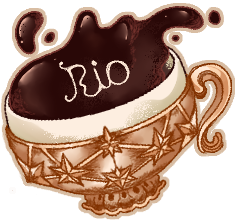
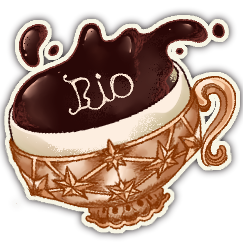
Nuevos iconos y mejoras para la responsiveness

diff --git a/src/scss/gallery.scss b/src/scss/gallery.scss
@@ -2,13 +2,16 @@
 
     .title {
         height: calc(100vh * 0.2);
+        min-height: 100px;
 
         &.title-#{$sectionName} {
             background-image: url('../assets/images/title-#{$sectionName}.png');
-        }
 
-        @include media-breakpoint-down(sm) {
-            &.title-#{$sectionName} {
+            @include media-breakpoint-down(sm) {
+                background-image: url('../assets/images/title-#{$sectionName}-small.png');
+            }
+
+            @media (max-height: 500px) {
                 background-image: url('../assets/images/title-#{$sectionName}-small.png');
             }
         }

diff --git a/src/scss/home.scss b/src/scss/home.scss
@@ -24,13 +24,16 @@ $button-height: 250px;
 
         width: 100%;
         height: calc(100vh * .25);
-    }
+        min-height: 100px;
 
-    @include media-breakpoint-down(sm) {
-        .title {
+        @include media-breakpoint-down(sm) {
+            background-image: url("../assets/images/home-title-small.png");
+        }
+        @media (max-height: 500px) {
             background-image: url("../assets/images/home-title-small.png");
         }
     }
+
 
     .left-0 .character.left{
         background-image: url("../assets/images/home-left-character-0.png");

diff --git a/src/scss/art.scss b/src/scss/art.scss
@@ -23,12 +23,9 @@
 
     .buttons-container {
 
-        .arrow {
-            max-width: 19%;
-        }
-        .return {
-            max-width: 59%;
-        }
+        background-color: rgba(0, 0, 0, 0.219);
+        border-radius: 50px;
+        padding: 5px 0;
 
         .arrow,
         .return {
@@ -39,6 +36,7 @@
         }
 
         a img {
+            max-height: 40px;
             transform: scale(1);
             transition: all 0.5s cubic-bezier(0.18, 0.89, 0.32, 1.28);
         }

diff --git a/src/scss/bio.scss b/src/scss/bio.scss
@@ -3,10 +3,13 @@
     .title {
         background-image: url('../assets/images/title-bio.png');
         height: calc(100vh * 0.2);
-    }
+        min-height: 100px;
 
-    @include media-breakpoint-down(sm) {
-        .title {
+        @include media-breakpoint-down(sm) {
+            background-image: url('../assets/images/title-bio-small.png');
+        }
+
+        @media (max-height: 500px) {
             background-image: url('../assets/images/title-bio-small.png');
         }
     }

diff --git a/src/scss/contact.scss b/src/scss/contact.scss
@@ -6,6 +6,7 @@
     .title {
         background-image: url('../assets/images/contact-title.png');
         height: calc(100vh * 0.3);
+        min-height: 150px;
     }
 
     .character

diff --git a/src/scss/layout.scss b/src/scss/layout.scss
@@ -285,3 +285,11 @@ html body {
         }
     }
 }
+
+@media (max-height: 500px) {
+    .nav-menu {
+        .link-bracket{
+            display: none !important;
+        }
+    }
+}
